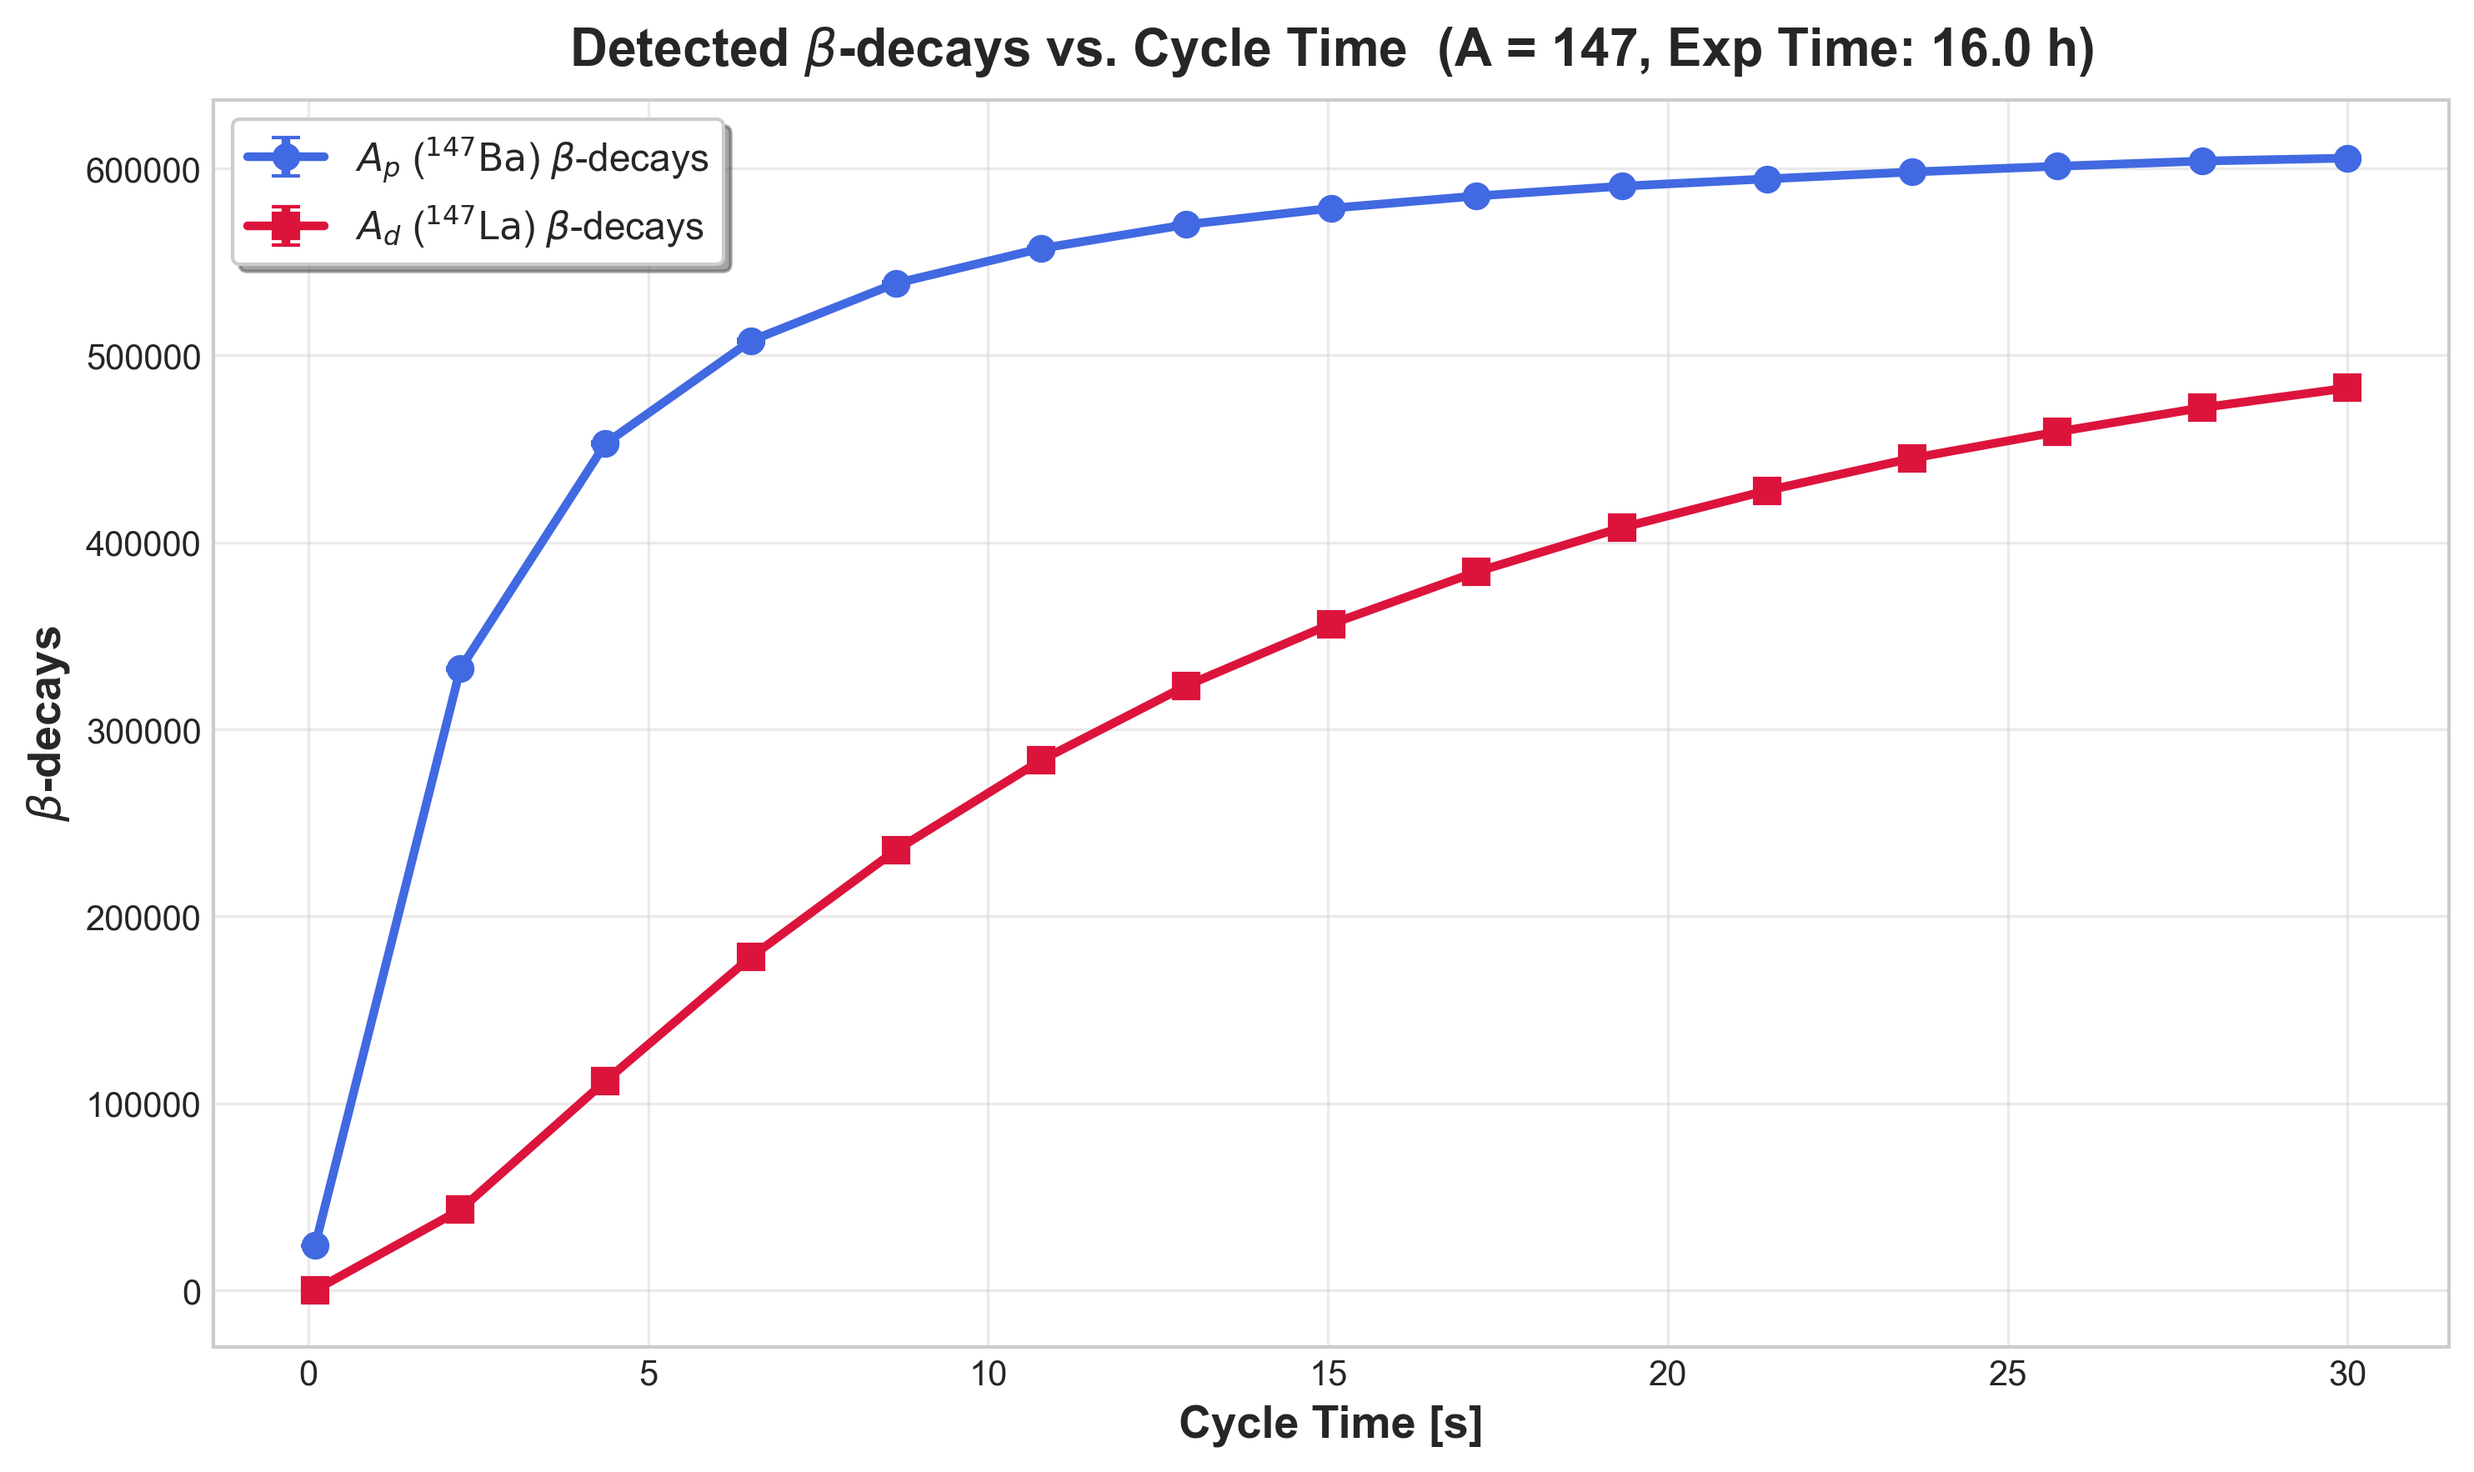
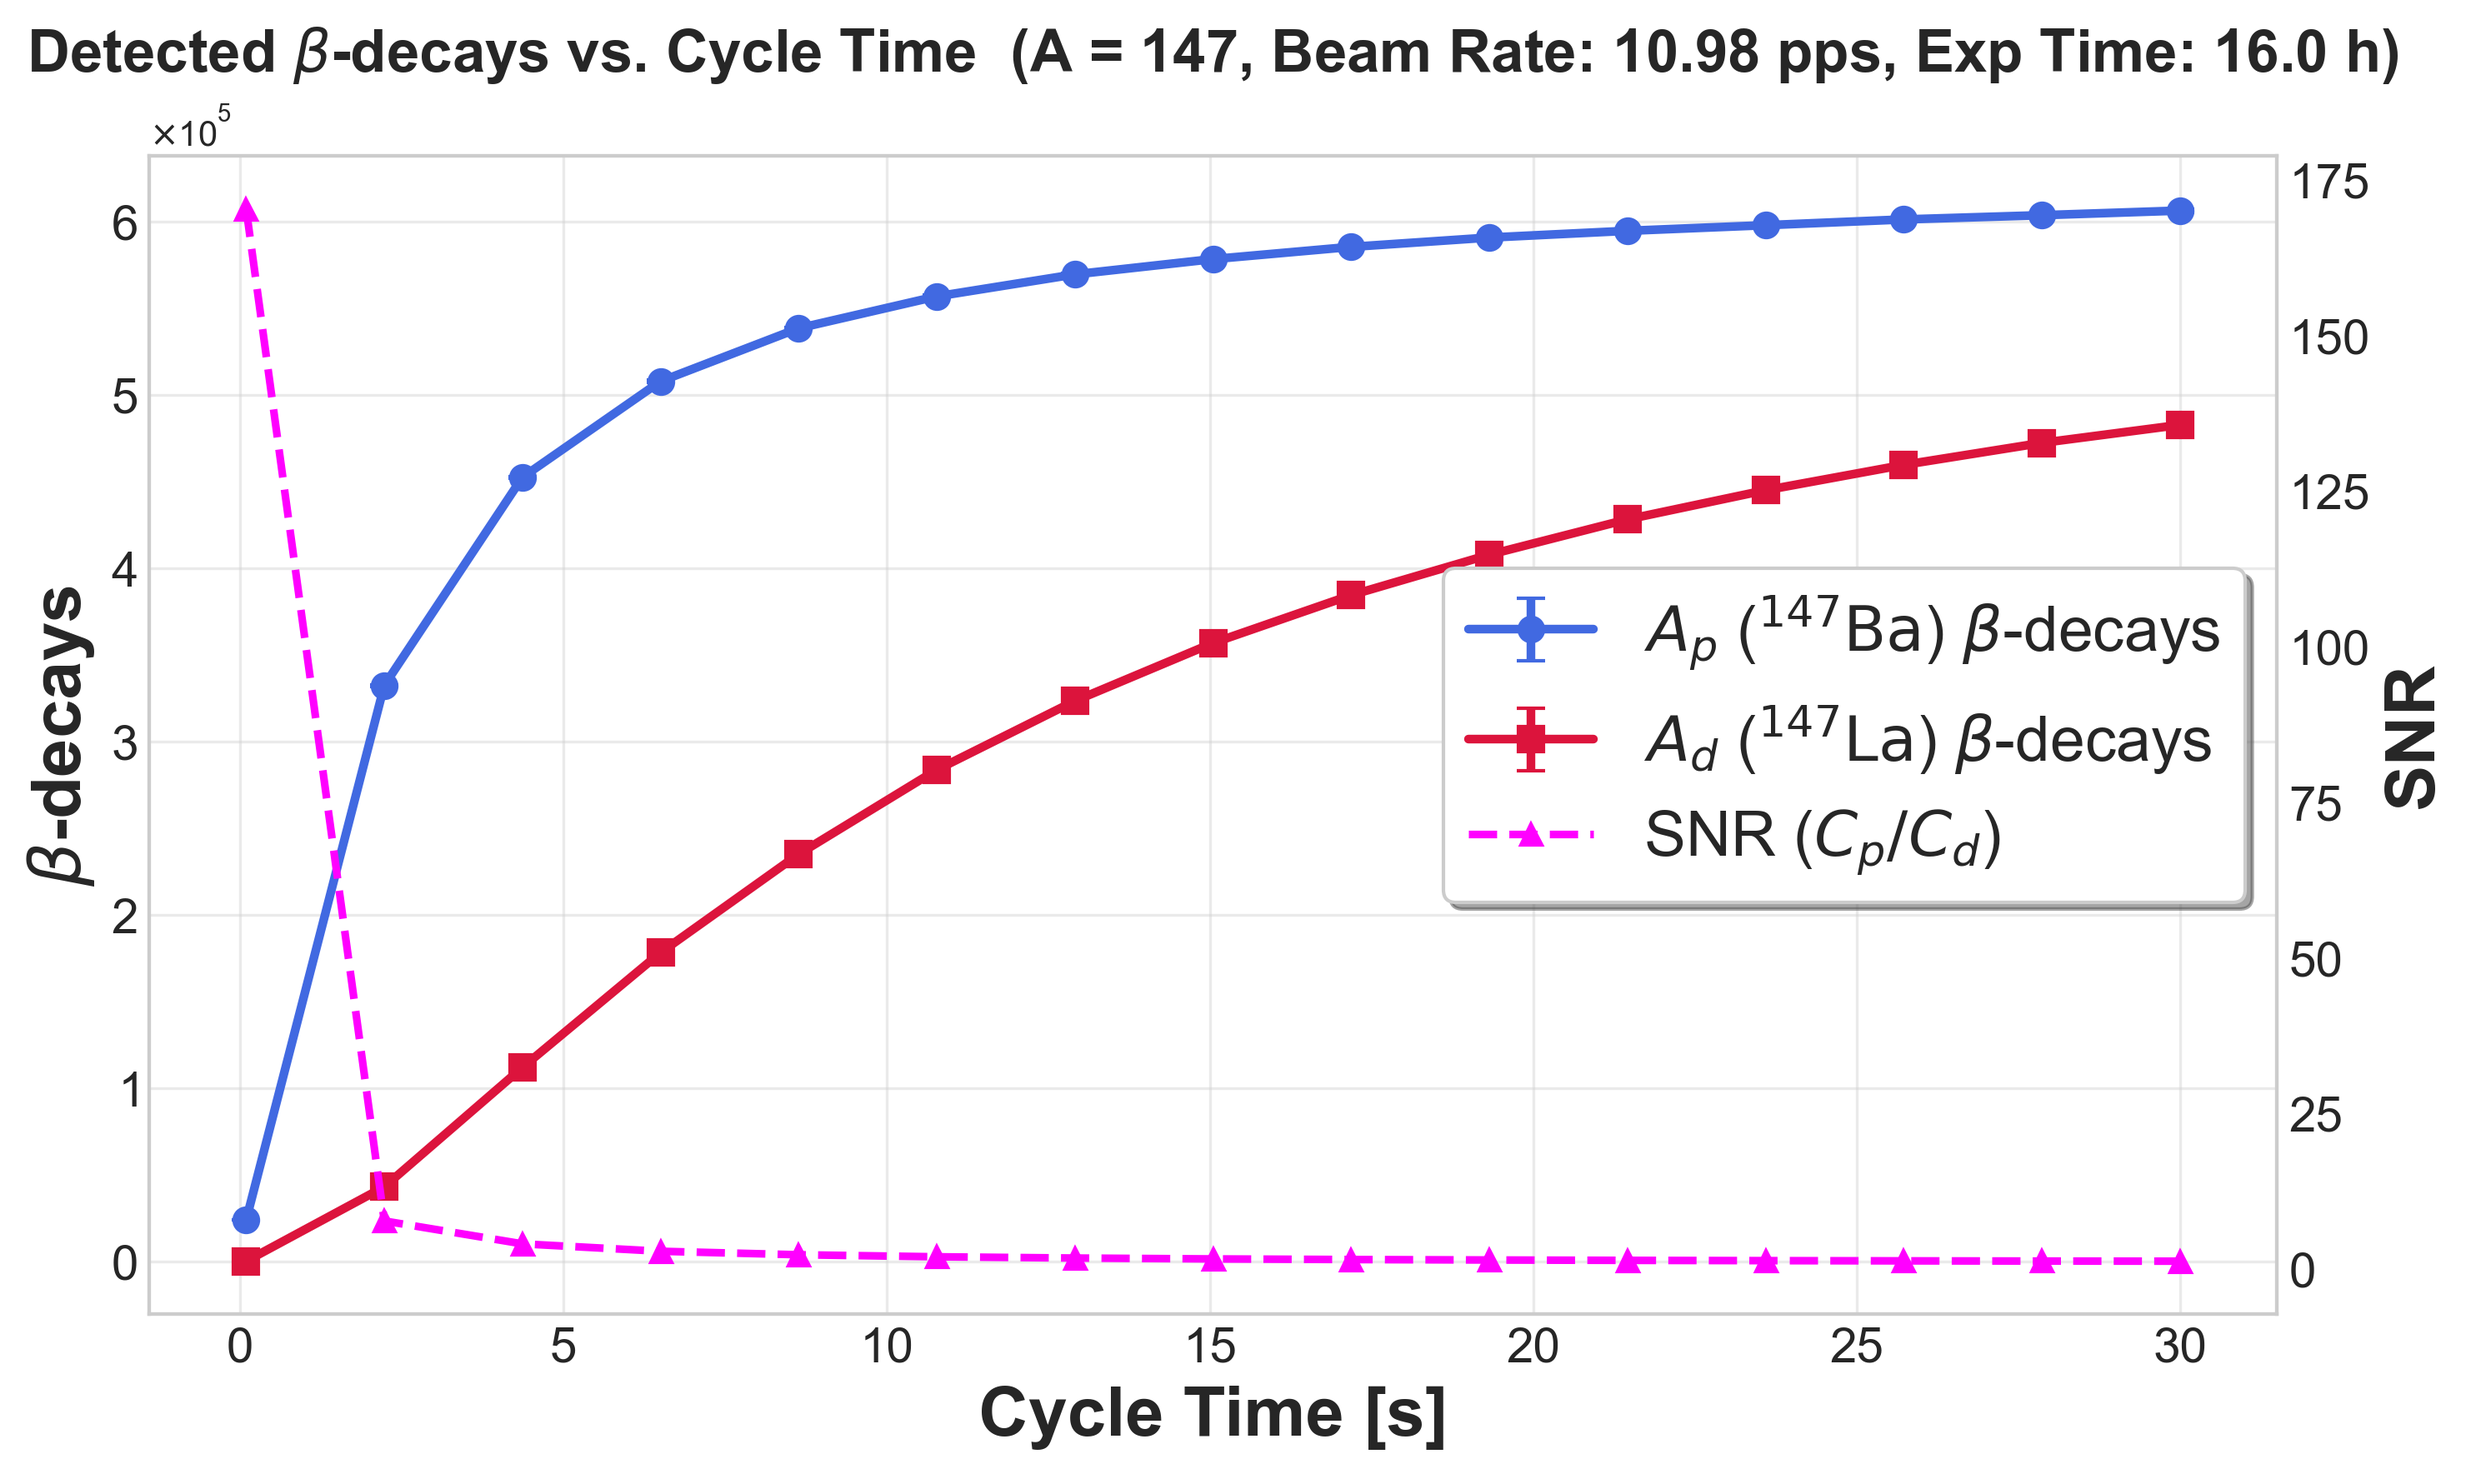
feat: effeciencies

diff --git a/optimizer/make_plots.py b/optimizer/make_plots.py
@@ -45,7 +45,7 @@ def tape_cycle_plot(t, R, A, A1, A2, N1, N2, integral_A1, integral_A2, snr_vals,
         plt.show()
 
 
-def plot_vary_cycle_results(results, A, t_exp, parent=None, daughter=None, save=None):
+def plot_vary_cycle_results(results, A, t_exp, rate, parent=None, daughter=None, save=None, csv=False):
     """
     Plots the mean detected parent & daughter counts vs cycle time,
     styled consistently with tape_cycle_plot, including mass number A,
@@ -54,16 +54,25 @@ def plot_vary_cycle_results(results, A, t_exp, parent=None, daughter=None, save=
 
     plt.style.use('seaborn-v0_8-whitegrid')
 
-    cycle_times = results["cycle_times"]
-    parent_counts = results["parent_counts"]
-    daughter_counts = results["daughter_counts"]
+    if csv:
+        cycle_times = results["cycle_time_s"]
+        parent_means = results["parent_mean"]
+        parent_stds = results["parent_std"]
+        daughter_means = results["daughter_mean"]
+        daughter_stds = results["daughter_std"]
+    else:
+        cycle_times = results["cycle_times"]
+        parent_counts = results["parent_counts"]
+        daughter_counts = results["daughter_counts"]
 
-    # mean & standard deviations
-    parent_means = np.array([np.mean(arr) for arr in parent_counts])
-    parent_stds = np.array([np.std(arr) for arr in parent_counts])
+        # means & standard deviations
+        parent_means = np.array([np.mean(arr) for arr in parent_counts])
+        parent_stds = np.array([np.std(arr) for arr in parent_counts])
 
-    daughter_means = np.array([np.mean(arr) for arr in daughter_counts])
-    daughter_stds = np.array([np.std(arr) for arr in daughter_counts])
+        daughter_means = np.array([np.mean(arr) for arr in daughter_counts])
+        daughter_stds = np.array([np.std(arr) for arr in daughter_counts])
+
+    snr = parent_means/daughter_means
 
     fig, ax = plt.subplots(figsize=(10, 6))
     parent_label = "Ba"
@@ -73,7 +82,16 @@ def plot_vary_cycle_results(results, A, t_exp, parent=None, daughter=None, save=
     if daughter is not None:
         daughter_label = daughter
 
-        # parent errorbar curve
+    from matplotlib.ticker import ScalarFormatter
+
+    formatter = ScalarFormatter(useMathText=True)
+    formatter.set_scientific(True)
+    formatter.set_powerlimits((0, 0))
+
+    ax.yaxis.set_major_formatter(formatter)
+    ax.yaxis.get_offset_text().set_visible(False)
+
+    # parent errorbar curve
     ax.errorbar(
         cycle_times,
         parent_means,
@@ -83,8 +101,7 @@ def plot_vary_cycle_results(results, A, t_exp, parent=None, daughter=None, save=
         linewidth=2.5,
         markersize=7,
         capsize=4,
-        label=rf"$A_p$ ($^{{{A}}}\mathrm{{{parent_label}}}$) $\beta$-decays"
-    )
+        label=rf"$A_p$ ($^{{{A}}}\mathrm{{{parent_label}}}$) $\beta$-decays")
 
     # daughter errorbar curve
     ax.errorbar(
@@ -97,31 +114,82 @@ def plot_vary_cycle_results(results, A, t_exp, parent=None, daughter=None, save=
         markersize=7,
         capsize=4,
         label=rf"$A_d$ ($^{{{A}}}\mathrm{{{
-            daughter_label}}}$) $\beta$-decays"
-    )
+            daughter_label}}}$) $\beta$-decays")
+
+    # secondary y-axis for SNR
+    ax_snr = ax.twinx()
+
+    ax_snr.plot(
+        cycle_times,
+        snr,
+        linestyle="--",
+        color="magenta",
+        marker="^",
+        linewidth=2.2,
+        markersize=6,
+        label=r"SNR ($C_p / C_d$)")
+    # ax_snr.set_yscale("log")
+    # from matplotlib.ticker import LogLocator, LogFormatterMathtext
+    #
+    # ax_snr.set_yscale("log")
+    #
+    # # major ticks at 10^n
+    # ax_snr.yaxis.set_major_locator(LogLocator(base=10))
+    # ax_snr.yaxis.set_major_formatter(LogFormatterMathtext())
+    #
+    # # minor ticks at 2–9 × 10^n
+    # ax_snr.yaxis.set_minor_locator(
+    #     LogLocator(base=10, subs=np.arange(2, 10) * 0.1)
+    # )
+    #
+    # # make minor ticks visible
+    # ax_snr.tick_params(axis="y", which="minor", length=4)
+    # ax_snr.tick_params(axis="y", which="major", length=7)
+    ax_snr.set_ylabel("SNR", fontsize=20, fontweight="bold")
+    ax_snr.grid(False)
 
     ax.set_title(
         rf"Detected $\beta$-decays vs. Cycle Time  (A = {
-            A}, Exp Time: {round(t_exp/60/60, 0)} h)",
-        fontsize=15,
+            A}, Beam Rate: {rate} pps, Exp Time: {round(t_exp/60/60, 0)} h)",
+        fontsize=17,
         fontweight="bold",
-        pad=10
-    )
-    ax.set_xlabel("Cycle Time [s]", fontsize=13, fontweight="bold")
-    ax.set_ylabel(r"$\beta$-decays", fontsize=13, fontweight="bold")
+        pad=10)
+    ax.set_xlabel("Cycle Time [s]", fontsize=20, fontweight="bold")
+    ax.set_ylabel(r"$\beta$-decays", fontsize=20, fontweight="bold")
+
+    ax.tick_params(axis='both', which='major', labelsize=14)
+    ax_snr.tick_params(axis='y', which='major', labelsize=14)
 
     ax.grid(True, alpha=0.4)
 
+    lines_1, labels_1 = ax.get_legend_handles_labels()
+    lines_2, labels_2 = ax_snr.get_legend_handles_labels()
+
     ax.legend(
-        fontsize=11,
+        lines_1 + lines_2,
+        labels_1 + labels_2,
+        fontsize=18,
         frameon=True,
         fancybox=True,
-        shadow=True
-    )
+        shadow=True,
+        loc='center right')
 
     plt.tight_layout()
 
     if save is not None:
         plt.savefig(save, dpi=300, bbox_inches="tight")
+        import pandas as pd
+        from pathlib import Path
+
+        csv_path = Path(save).with_suffix(".csv")
+
+        df = pd.DataFrame({
+            "cycle_time_s": cycle_times,
+            "parent_mean": parent_means,
+            "parent_std": parent_stds,
+            "daughter_mean": daughter_means,
+            "daughter_std": daughter_stds})
+
+        df.to_csv(csv_path, index=False)
 
     plt.show()

diff --git a/optimizer/scripts/run_bateman.py b/optimizer/scripts/run_bateman.py
@@ -2,6 +2,7 @@ from optimizer.bateman import simulate_decay, snr, snr_w_time, monte_carlo, simu
 from optimizer.make_plots import tape_cycle_plot, plot_vary_cycle_results
 
 import numpy as np
+import pandas as pd
 import typer
 
 app = typer.Typer()
@@ -93,17 +94,23 @@ def mc_search(t_min: float = 0.5,
               eff2: float = 1.0,
               samples: int = 10,
               A: int = 147,
-              save: str = None):
+              save: str = None,
+              csv_data: str = None):
 
-    lam1 = np.log(2)/tp
-    lam2 = np.log(2)/td
+    if csv_data is not None:
+        df = pd.read_csv(csv_data)
+        plot_vary_cycle_results(
+            df, A, t_exp=t_exp, rate=rate, save=save, csv=True)
+    else:
+        lam1 = np.log(2)/tp
+        lam2 = np.log(2)/td
 
-    mc_res = vary_cycle_time(rate, lam1, lam2, t_min, t_max,
-                             t_exp, eff1, eff2, samples, n_cycles_to_test=bins)
-    for t, pc, dc in zip(mc_res["cycle_times"], mc_res["parent_counts"], mc_res["daughter_counts"]):
-        print(f"t_cycle={t:.2f}  parent_mean={
-              np.mean(pc):.1f}  daughter_mean={np.mean(dc):.1f}")
-    plot_vary_cycle_results(mc_res, A, t_exp=t_exp, save=save)
+        mc_res = vary_cycle_time(rate, lam1, lam2, t_min, t_max,
+                                 t_exp, eff1, eff2, samples, n_t_cycles_to_test=bins)
+        for t, pc, dc in zip(mc_res["cycle_times"], mc_res["parent_counts"], mc_res["daughter_counts"]):
+            print(f"t_cycle={t:.2f}  parent_mean={
+                  np.mean(pc):.1f}  daughter_mean={np.mean(dc):.1f}")
+        plot_vary_cycle_results(mc_res, A, t_exp=t_exp, rate=rate, save=save)
 
 
 if __name__ == '__main__':

diff --git a/optimizer/bateman.py b/optimizer/bateman.py
@@ -36,6 +36,7 @@ def simulate_decay(R, lam1, lam2, t_cycle, t_eval=None):
     return sol
 
 
+# skip
 def snr(sol, lam1, lam2):
     """
     Calculates the Signal-To-Noise ratio between the parent
@@ -51,6 +52,8 @@ def snr(sol, lam1, lam2):
     snr = integral_A2 / integral_A1 if integral_A1 > 0 else 0
 
     return snr, integral_A1, integral_A2
+
+# skip
 
 
 def snr_w_time(sol, lam1, lam2):
@@ -81,6 +84,7 @@ def snr_w_time(sol, lam1, lam2):
     return snr_list, np.array(integral_A1_list), np.array(integral_A2_list)
 
 
+# skip
 def monte_carlo(sol, lam1, lam2, eff1=1.0, eff2=1.0, n_samples=100):
     """
     Monte carlo simulation for event activity
@@ -111,6 +115,10 @@ def monte_carlo(sol, lam1, lam2, eff1=1.0, eff2=1.0, n_samples=100):
 
 
 def simulate_experiment(sol, lam1, lam2, t_cycle, t_exp, eff1=1.0, eff2=1.0, n_samples=100) -> {}:
+    """
+
+    """
+    # number of times the tape cycles during the experiment
     n_cycles = int(t_exp // t_cycle)
 
     results_parent = np.zeros(n_samples)
@@ -146,11 +154,11 @@ def simulate_experiment(sol, lam1, lam2, t_cycle, t_exp, eff1=1.0, eff2=1.0, n_s
     }
 
 
-def vary_cycle_time(R, lam1, lam2, t_min, t_max, t_exp, eff1=1.0, eff2=1.0, n_samples=100, n_cycles_to_test=10):
+def vary_cycle_time(R, lam1, lam2, t_min, t_max, t_exp, eff1=1.0, eff2=1.0, n_samples=100, n_t_cycles_to_test=10):
     """
     Runs the monte carlo simulation with varying cycle times.
     """
-    cycle_times = np.linspace(t_min, t_max, n_cycles_to_test)
+    cycle_times = np.linspace(t_min, t_max, n_t_cycles_to_test)
 
     parent_results = []
     daughter_results = []
